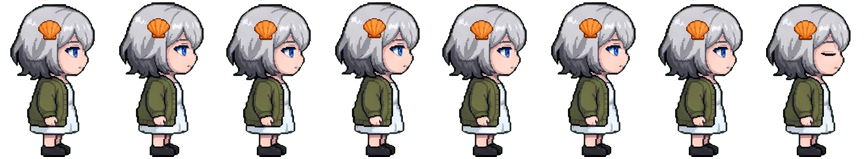
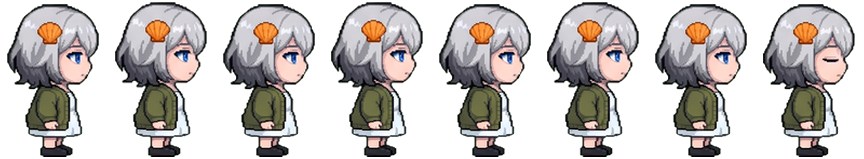
서하 옆모습 정지 비율을 옆 걷기에 맞춤
머리끝~턱, 턱~발바닥을 따로 조정하고 폭은 머리 폭 비율로 맞추는
match_proportions 옵션 추가 (키는 그대로 유지).

Claude-Session: https://claude.ai/code/session_01MBgVgKbFxkEXND4zuEcjdV

diff --git a/tools/sprite_cleanup/clean_chroma.py b/tools/sprite_cleanup/clean_chroma.py
@@ -66,7 +66,23 @@ def cut(rgba, box, pad=4):
 
 
 def hq_resize(img, scale):
-    w, h = max(1, round(img.width * scale)), max(1, round(img.height * scale))
+    return hq_resize_xy(img, max(1, round(img.width * scale)), max(1, round(img.height * scale)))
+
+
+def chin_rows(img):
+    """(머리 꼭대기, 턱, 발바닥) 행 번호. 턱 = 위쪽 60% 안에서 얼굴 피부가 보이는 마지막 줄."""
+    a = np.array(img).astype(int)
+    al = a[..., 3] > 128
+    ys = np.nonzero(al.any(1))[0]
+    top, bot = ys[0], ys[-1]
+    r, g, b = a[..., 0], a[..., 1], a[..., 2]
+    skin = al & (r > 200) & (g > 150) & (b > 130) & (r - b > 25)
+    rows = np.nonzero(skin.sum(1) >= 3)[0]
+    rows = rows[rows < top + 0.6 * (bot - top)]
+    return top, (rows[-1] + 1 if rows.size else top + (bot - top) // 2), bot
+
+
+def hq_resize_xy(img, w, h):
     a = np.array(img).astype(np.float32) / 255.0
     pre = a[..., :3] * a[..., 3:4]
     chans = [Image.fromarray((c * 255).astype(np.uint8)).resize((w, h), Image.LANCZOS)
@@ -215,6 +231,34 @@ def main(cfg_path, out_dir):
         # 앉은 동작처럼 키로 맞출 수 없는 동작은 같은 시트의 다른 동작 배율을 빌려 씀
         k = ref_scale * factor.get(anim["name"], factor.get(anim.get("scale_like"), 1.0))
         scaled[anim["name"]] = [hq_resize(f, k) for f in fr]
+
+    # 2.5차: 비율 맞춤 – 그림마다 머리·몸 비율이 다르게 그려진 동작을 기준 동작의 비율로 고친다
+    # (머리끝~턱, 턱~발바닥을 따로 늘이거나 줄이고, 폭은 머리 폭 비율로 맞춤)
+    for anim in cfg["animations"]:
+        ref = anim.get("match_proportions")
+        if not ref:
+            continue
+        def parts(fs):
+            up, low = [], []
+            for f in fs:
+                top, chin, bot = chin_rows(f)
+                up.append(chin - top); low.append(bot - chin)
+            return np.median(up), np.median(low)
+        ru, rl = parts(scaled[ref])
+        mu, ml = parts(scaled[anim["name"]])
+        kx = np.median([head_width(f) for f in scaled[ref]]) / np.median([head_width(f) for f in scaled[anim["name"]]])
+        ku, kl = ru / mu, rl / ml
+        new = []
+        for f in scaled[anim["name"]]:
+            top, chin, bot = chin_rows(f)
+            w = max(1, round(f.width * kx))
+            a = hq_resize_xy(f.crop((0, 0, f.width, chin)), w, max(1, round(chin * ku)))
+            b = hq_resize_xy(f.crop((0, chin, f.width, f.height)), w, max(1, round((f.height - chin) * kl)))
+            g = Image.new("RGBA", (w, a.height + b.height), (0, 0, 0, 0))
+            g.alpha_composite(a, (0, 0)); g.alpha_composite(b, (0, a.height))
+            new.append(g.crop(g.getbbox()))
+        scaled[anim["name"]] = new
+        print(f"  {anim['name']}: 비율 맞춤 (폭 x{kx:.3f}, 머리 x{ku:.3f}, 몸 x{kl:.3f})")
 
     # 3차: 같은 칸, 발바닥 정렬, 좌우 반전 동작 생성
     every = [f for fr in scaled.values() for f in fr]
